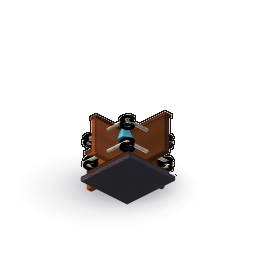
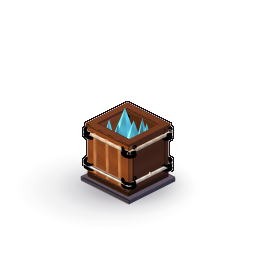
chore(release): actualizar notas 1.0.1 y pulir arte de almacenes
Actualiza patch notes 1.0.1, ajusta huella/suelo compartido y regenera arte/documentacion de almacenes.

Changed region(s): [[0.3125, 0.375, 0.6875, 0.8125]]

diff --git a/back/entities/StructureView.js b/back/entities/StructureView.js
@@ -10,11 +10,12 @@
  * de mover el edificio; así no queda un parche debajo de la casilla antigua.
  * ========================================================== */
 
+import Phaser from 'phaser';
 import { iso } from '../systems/iso.js';
 import { HALF_H, HALF_W, SCALE, TILE_H, TILE_W } from '../config/world.js';
 import { OVERLAY_DEPTH } from '../config/interaction.js';
 import { VAULT_ART, vaultArtFor } from '../config/vaultArt.js';
-import { makeDungeonRockTexture } from '../systems/defenseTextures.js';
+import { makeDungeonRockTexture, rockSmoothingFor } from '../systems/defenseTextures.js';
 import { specFor } from '../systems/structureSpecs.js';
 
 const C = {
@@ -30,8 +31,11 @@ const C = {
   slime: 0x7dc94a, slimeHi: 0xb6f5a4,
 };
 
-// Cimientos de mazmorra: la misma piedra fría para todos, con un matiz
-// ligero por edificio para conservar su identidad sin romper el conjunto.
+// Solo las trampas conservan su cimiento dibujado a mano: el resto de
+// edificios comparte el suelo de roca de mazmorra con defensas y almacenes.
+const TRAP_KINDS = new Set(['bomb', 'electro', 'rocktrap']);
+
+// Matiz ligero por trampa para conservar su identidad sin romper el conjunto.
 const GROUND = {
   turret: [0x3d3d44, 0x7b7b86],
   catapult: [0x3d3a35, 0x7b756a],
@@ -368,6 +372,7 @@ export class StructureView {
     this.baseDepth = this.x + this.y + this.size;
     this.ground = scene.add.graphics().setDepth(this.baseDepth + 0.01);
     this.groundRock = null;
+    this.rockFilter = -1;
     this.shadow = scene.add.graphics().setDepth(this.baseDepth + 0.02);
     this.body = scene.add.graphics().setDepth(this.baseDepth + 0.05);
     this.image = null;
@@ -393,17 +398,22 @@ export class StructureView {
   drawGround() {
     const g = this.ground;
     g.clear();
-    const vaultArt = vaultArtFor(this.kind);
-    if (vaultArt) {
+    // Un suelo para todos: el mismo parche de roca que usan ballesta,
+    // catapulta, lanzadardos y almacenes. Núcleo y entrada tienen el suyo.
+    if (!TRAP_KINDS.has(this.kind)) {
       const key = `structure-rock-${this.size}`;
       makeDungeonRockTexture(this.scene, key, this.size);
       const top = iso(this.x, this.y, 0);
+      const w = this.size * TILE_W;
+      const h = this.size * TILE_H;
       if (!this.groundRock) {
         this.groundRock = this.scene.add.image(top.x, top.y, key)
-          .setOrigin(0, 0)
+          .setOrigin(0.5, 0)           // vértice superior del rombo, como DefenseTower
+          .setDisplaySize(w, h)        // la textura se hornea a 2×: reducir a tamaño de mundo
           .setDepth(this.baseDepth + 0.01);
       } else {
-        this.groundRock.setTexture(key).setPosition(top.x, top.y).setDepth(this.baseDepth + 0.01);
+        this.groundRock.setTexture(key).setPosition(top.x, top.y)
+          .setDisplaySize(w, h).setDepth(this.baseDepth + 0.01);
       }
       this.groundRock.setVisible(!this.hidden).setAlpha(this.destroyed ? 0.6 : 0.95);
       return;
@@ -420,6 +430,18 @@ export class StructureView {
       (top.x + bottom.x) / 2, (top.y + bottom.y) / 2,
       (right.x - left.x) / 2, (bottom.y - top.y) / 2,
       colors[0], colors[1], this.destroyed ? 0.6 : 0.95);
+  }
+
+  // Mismo filtro por zoom que las defensas: nítido al ampliar, suave al alejar.
+  syncRockFilter() {
+    if (TRAP_KINDS.has(this.kind)) return;
+    const zoom = this.scene.cameras.main.zoom || 1;
+    const mode = rockSmoothingFor(zoom, this.size)
+      ? Phaser.Textures.FilterMode.LINEAR
+      : Phaser.Textures.FilterMode.NEAREST;
+    if (mode === this.rockFilter) return;
+    this.rockFilter = mode;
+    this.scene.textures.get(`structure-rock-${this.size}`).setFilter(mode);
   }
 
   drawShadow() {
@@ -601,6 +623,7 @@ export class StructureView {
   }
 
   update(time) {
+    this.syncRockFilter();
     const animated = ['rift', 'electro', 'bomb', 'lab', 'workshop', 'incubator', 'mine', 'catapult', 'banner', 'bannerslime'];
     if (this.floating) return;
     if (!animated.includes(this.kind)) return;

diff --git a/index.html b/index.html
@@ -439,9 +439,12 @@
         </button>
       </div>
       <div class="patch-notes-body">
-        <h3 class="patch-notes-section">Cambios</h3>
         <p class="patch-notes-version">version 1.0.1</p>
-        <p class="patch-notes-item">1.-</p>
+        <h3 class="patch-notes-section">Cambios</h3>
+        <p class="patch-notes-item">1.- Bug fix; Se arreglo el error de la capacidad maxima de los almacenes, ya no se generan 1500 de recursos solo por abandonar la invasion, debes destruir almacenes, minas, talleres o nucleo. Entre otros.</p>
+        <p class="patch-notes-item">2.- Mejoras de HUD para dispositivos moviles</p>
+        <p class="patch-notes-item">3.- Mejoras visuales en general</p>
+        <p class="patch-notes-item">4.- Sprites para todos los almacenes</p>
       </div>
     </section>
   </div>

diff --git a/back/systems/defenseTextures.js b/back/systems/defenseTextures.js
@@ -27,7 +27,7 @@ const makeCanvas = (w, h) => {
 const ROCK_T = 64;
 const ROCK_SS = 2;
 
-const rockSmoothingFor = (zoom, size) => zoom * size * HALF_W / ROCK_T < 1;
+export const rockSmoothingFor = (zoom, size) => zoom * size * HALF_W / ROCK_T < 1;
 
 function buildRockPattern() {
   const T = ROCK_T;

diff --git a/front/assets/README.md b/front/assets/README.md
@@ -16,10 +16,16 @@
 | `estructuras/nucleo/core.png` | Núcleo 2.5D: plataforma, 4 pilares agrietados y cristal cian, 384×384 RGBA | `back/assets/index.js` → textura `core` |
 | `estructuras/nucleo/core-glow.png` | Resplandor cian 256×256 RGBA | `BootScene` → textura `core-glow` (alfa animada en `CoreView`) |
 | `estructuras/nucleo/core-art.json` | Ancla, escala y medidas del render | Documentación del generador |
+| `estructuras/almacen-monedas/vault-coins.png` | Caja fuerte negra con herrajes grises, amarres de cuerda en las esquinas y cuerda que ciñe todo el conjunto, 256×256 RGBA | `back/assets/index.js` → textura `vault-coins` |
+| `estructuras/almacen-cristales/vault-crystals.png` | Cubeta de madera abierta con uniones de cuerda y minerales cian dentro, 256×256 RGBA | `back/assets/index.js` → textura `vault-crystals` |
+| `estructuras/almacen-*/vault-art.json` | Ancla, escala y bbox del render | Documentación del generador |
 
 Las imágenes se generan con `npm run art:ballista`, `npm run art:turret`,
-`npm run art:catapult` y `npm run art:core` (`tools/*-art/generate.mjs`) desde
-modelos 3D con cámara isométrica real. No hay fuentes sueltas:
+`npm run art:catapult`, `npm run art:core` y `npm run art:vault`
+(`tools/*-art/generate.mjs`) desde modelos 3D con cámara isométrica real.
+Todos los edificios (excepto trampas, núcleo y entrada) comparten el mismo
+suelo de roca de mazmorra: `makeDungeonRockTexture()` en
+`back/systems/defenseTextures.js`. No hay fuentes sueltas:
 `front/css/tokens/05-fuentes.css` las incrusta en base64. El terreno (incluida
 la huella de mazmorra del núcleo), la entrada, las tropas, los topos y las
 estructuras genéricas se generan en memoria desde código en `back/`.

diff --git a/front/assets/estructuras/almacen-cristales/README.md b/front/assets/estructuras/almacen-cristales/README.md
@@ -1,0 +1,24 @@
+# Almacén de cristales — cubeta 2.5D
+
+Modelo estático (sin rotación) horneado con `npm run art:vault`
+(`tools/vault-art/generate.mjs`), siguiendo el pipeline `coc-25d-pipeline`:
+geometría 3D estilizada, cámara ortográfica isométrica (azimut 45°, elevación
+30°), supersampling 4× y salida PNG RGBA de 256×256.
+
+## Modelo
+- **Cubo de madera abierto** (cubeta): fondo oscuro, cuatro paredes gruesas y
+  borde de boca bien marcado para que se lea el interior.
+- **Uniones de cuerda** helicoidales con volumen real en las cuatro esquinas y
+  dos vueltas que rodean la cubeta, con nudos de remate.
+- Los **minerales van dentro de la cubeta**: sus bases quedan ocultas entre las
+  paredes y solo asoman las puntas de los cristales cian.
+
+## Convenciones
+| Archivo | Uso |
+|---|---|
+| `vault-crystals.png` | Textura `vault-crystals`, dibujada por `StructureView` |
+| `vault-art.json` | `cell`, `artScale`, `anchor` y `bbox` derivados del render |
+
+El suelo de roca compartido no va en el PNG: lo dibuja Phaser con
+`makeDungeonRockTexture()` (`back/systems/defenseTextures.js`), igual que el
+resto de edificios. La sombra de contacto sí está horneada en la imagen.

diff --git a/front/assets/estructuras/almacen-monedas/README.md b/front/assets/estructuras/almacen-monedas/README.md
@@ -1,0 +1,23 @@
+# Almacén de monedas — caja fuerte 2.5D
+
+Modelo estático (sin rotación) horneado con `npm run art:vault`
+(`tools/vault-art/generate.mjs`), siguiendo el pipeline `coc-25d-pipeline`:
+geometría 3D estilizada, cámara ortográfica isométrica (azimut 45°, elevación
+30°), supersampling 4× y salida PNG RGBA de 256×256.
+
+## Modelo
+- Cuerpo **negro** compacto con biseles gruesos y zócalo de acero oscuro.
+- Puerta con marco y panel **grises**, remaches y dial con pequeño cubo de latón.
+- **Uniones de cuerda** helicoidales con volumen real en las cuatro esquinas.
+- Una **cuerda que ciñe todo el alrededor** a dos alturas, más otra cruzada
+  sobre la tapa y nudos de remate en la cara frontal.
+
+## Convenciones
+| Archivo | Uso |
+|---|---|
+| `vault-coins.png` | Textura `vault-coins`, dibujada por `StructureView` |
+| `vault-art.json` | `cell`, `artScale`, `anchor` y `bbox` derivados del render |
+
+El suelo de roca compartido no va en el PNG: lo dibuja Phaser con
+`makeDungeonRockTexture()` (`back/systems/defenseTextures.js`), igual que el
+resto de edificios. La sombra de contacto sí está horneada en la imagen.

diff --git a/back/assets/README.md b/back/assets/README.md
@@ -2,11 +2,12 @@
 
 | Archivo | Contenido |
 |---|---|
-| `index.js` | Exporta `ASSETS.ballista`, `ASSETS.turret` y `ASSETS.catapult` (pedestal + 4 atlas de cabeza cada uno) y `ASSETS.core` (imagen + resplandor), importados desde `front/assets/estructuras/` |
+| `index.js` | Exporta `ASSETS.ballista`, `ASSETS.turret` y `ASSETS.catapult` (pedestal + 4 atlas de cabeza cada uno), `ASSETS.core` (imagen + resplandor) y `ASSETS.vaultCoins` / `ASSETS.vaultCrystals`, importados desde `front/assets/estructuras/` |
 
 `BootScene` registra `ballista-base`, `turret-base`, `catapult-base`, los
 spritesheets `ballista-head-0..3`, `turret-head-0..3` y `catapult-head-0..3`
-(24 ángulos × 3 estados por defensa) y las texturas `core` / `core-glow`. Es la
+(24 ángulos × 3 estados por defensa), las texturas `core` / `core-glow` y las
+imágenes estáticas `vault-coins` / `vault-crystals`. Es la
 única dependencia de archivos binarios del código: el resto de las texturas se
 hornean en memoria (`systems/textures.js`, `systems/ballistaTextures.js`,
 `systems/turretTextures.js`, `systems/catapultTextures.js`,
